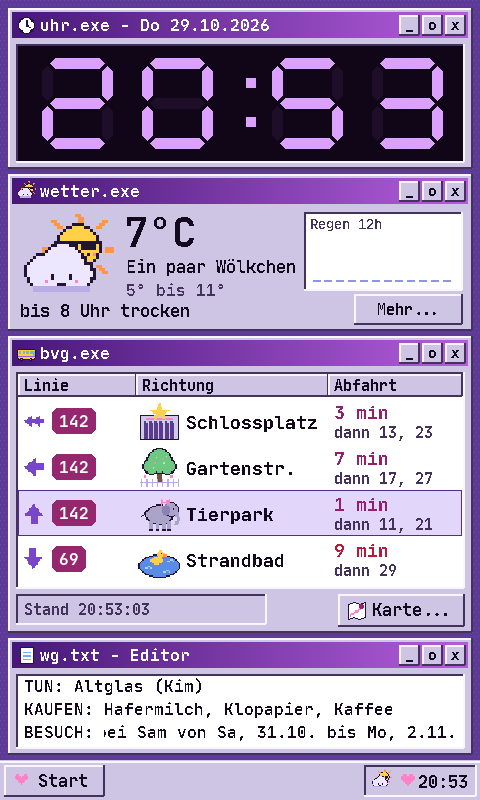
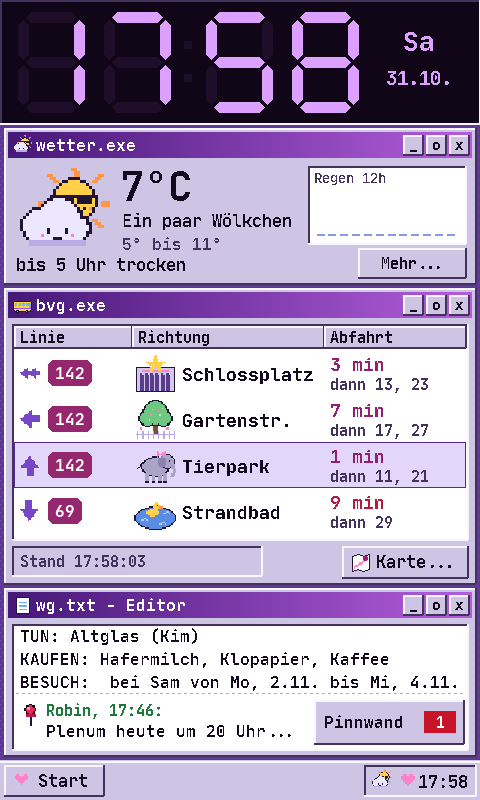
README: new games, Pinnwand, night mode, autostart wrapper; screenshots with made-up data

diff --git a/README.md b/README.md
@@ -10,6 +10,18 @@
 | -------------------------------------------------------------------------- | ----------------------------------------------------------------------------------------- |
 | <img src="images/kiezos_home.png" alt="KiezOS 161 home screen" width="300"> | <img src="images/example_installation.jpg" alt="Dashboard wall installation" width="300"> |
 
+| pinnwand.exe (WG chat for guests)                                    | Night mode                                                          | ENTEIGNEN!                                                        |
+| -------------------------------------------------------------------- | ------------------------------------------------------------------- | ----------------------------------------------------------------- |
+| <img src="images/kiezos_pinnwand.png" alt="pinnwand.exe" width="240"> | <img src="images/kiezos_night.png" alt="Night mode" width="240">    | <img src="images/game_enteignen.png" alt="ENTEIGNEN!" width="240"> |
+
+| TIC-TAC-DADA                                                            | PATRIAPUTT                                                            | KIEZ KAPERN                                                         |
+| ----------------------------------------------------------------------- | ------------------------------------------------------------------------ | ------------------------------------------------------------------- |
+| <img src="images/game_tictacdada.png" alt="TIC-TAC-DADA" width="240">   | <img src="images/game_patriaputt.png" alt="PATRIAPUTT" width="240"> | <img src="images/game_kiezkapern.png" alt="KIEZ KAPERN" width="240"> |
+
+| KIEZ-KURIER (daily puzzle)                                              | LASTENRAVE                                                               |
+| ----------------------------------------------------------------------- | ------------------------------------------------------------------------ |
+| <img src="images/game_kiezkurier.png" alt="KIEZ-KURIER" width="240">    | <img src="images/game_lastenrave.png" alt="LASTENRAVE" width="240">      |
+
 ## Abstract
 In here, I explain (for my future me and anyone else reading this, feel free to share!) how to successfully set up on a Pi 4B with the Waveshare 4,3 Zoll QLED Touch Display (DSI, 800x480) and Pi OS 20241119 (bookworm).
 
@@ -21,8 +33,9 @@ The 480x800 screen is dressed up as *KiezOS 161*, a purple 90s desktop, ordered 
 - `uhr.exe`: a big 7-segment clock with a blinking colon.
 - `wetter.exe`: current weather, today's low/high and whether rain is coming in the next 12 hours (hourly forecast from [Open-Meteo](https://open-meteo.com/), no API key needed). `Mehr...` opens the details: feels-like, humidity, wind, UV, the rain chart, sunrise/sunset, moon phase and the next 3 days.
 - `bvg.exe`: one row per configured bus connection with its destination landmark, "in x min" plus the departures after it, and delays in red. `Karte...` draws the same connections on a little map of the Kiez.
-- `wg.txt`: what's due, what to buy and who's visiting (optional MoaBeats integration, see below).
-- The `Start` menu bundles everything else: Spiele, AFM-Quiz, Putzdienste, WLAN-Zugang, Stimmung & Stats and `Herunterfahren...` (try it).
+- `wg.txt`: what's due, what to buy and who's visiting, plus a strip that opens `pinnwand.exe`, the WG's chat, where guests can read along and leave a message (optional MoaBeats integration, see below).
+- The `Start` menu bundles everything else: Spiele (a game of the day, a few favourites and a folder with the rest), AFM-Quiz, Putzdienste, WLAN-Zugang, Stimmung & Stats and `Herunterfahren...` (try it).
+- At night the whole screen turns warm red, so it doesn't light up the hallway (optional).
 - Some surprises when you walk past. Not telling.
 
 ## Cost estimate
@@ -264,16 +277,18 @@ The KiezOS 161 look has one theme file, set in `config.json` via
 
 #### MoaBeats WG Integration
 MoaBeats is a separate (not public) web app this WG uses to track chores, a shared shopping list,
-and upcoming guest visits. This integration is a one-way, read-only pull: `PiDashboard.py`
-periodically fetches a small JSON summary from MoaBeats' API and renders it on the display - it
-doesn't write anything back. If you don't run MoaBeats yourself, just leave `ENABLED: false` (the
+and upcoming guest visits. `PiDashboard.py` periodically fetches a small JSON summary from
+MoaBeats' API and renders it on the display; the only things it writes back are checklist ticks
+and Pinnwand messages (below). If you don't run MoaBeats yourself, just leave `ENABLED: false` (the
 default) and ignore this section entirely.
 ```json
 "MOABEATS": {
   "ENABLED": false,
   "API_URL": "https://your-moabeats-instance.up.railway.app",
   "DISPLAY_SECRET": "shared secret, set as DISPLAY_SECRET on the MoaBeats side too",
-  "POLL_INTERVAL": 1800
+  "POLL_INTERVAL": 1800,
+  "PINNWAND_USER": "FlurPi",
+  "PINNWAND_PASSWORD": "the guest account's password"
 }
 ```
 - Polls a MoaBeats instance's `GET /api/display/status` for WG chores, shopping list, and upcoming
@@ -287,6 +302,12 @@ default) and ignore this section entirely.
 - `Start` → `Putzdienste` lists today's and overdue cleaning chores (the same list as the cleaning-day
   screen); chores with a checklist show their progress and open on tap, where sub-items can be
   ticked (ticking only - completing a chore stays in the MoaBeats app).
+- **Pinnwand**: if `PINNWAND_USER`/`PINNWAND_PASSWORD` are set (a normal MoaBeats account just for
+  the display), the bottom strip of `wg.txt` shows the newest message of MoaBeats' `pinnwand` chat
+  channel and an unread badge; tapping it opens `pinnwand.exe` (`pinnwand.py`): the last messages as
+  chat bubbles, and an on-screen keyboard to write one, with an optional name ("Oma Erna: ...").
+  Bot reminders and emoji are left out. A wrong password is tried once and then not again (MoaBeats
+  would lock the account); without network it just says so and retries.
 - Polling pauses while the display is blank, same as weather/BVG, *except* on `CLEANING_DAY`: the
   blanked screen is actively showing the cleaning-day fullscreen then, so it keeps polling to stay
   current through the day rather than freezing on stale data.
@@ -309,6 +330,7 @@ default) and ignore this section entirely.
   "CONFIRMATION_SECONDS": 5,
   "CATALOG": [{"name": "happy", "emoji": "😊", "color": "#16a34a"}, ...],
   "CUSTOM_SLOTS": [],
+  "GROUPS": [["happy", "excited", "energized", "wild"], ["grateful", "relaxed", "proud", "focused"], ...],
   "FALLBACK_STYLE": {"emoji": "?", "color": "#9ca3af"},
   "LLM": {
     "ENABLED": false,
@@ -321,10 +343,22 @@ default) and ignore this section entirely.
 - Whenever the display is reactivated from blank state (touch or PIR motion), an emotion popup can appear.
 - Prompt frequency is rate-limited by `COOLDOWN_SECONDS` (default: once every 30 minutes).
 - The post-save confirmation popup stays visible for `CONFIRMATION_SECONDS` (default: 5 seconds).
-- Emotion buttons show up to 16 options (default catalog + custom slots), plus `Cancel` and `Show results` actions (also under `Start` → `Stimmung & Stats`). This window (`mood.exe`) is English, like the emotion names it logs.
+- Emotion buttons show up to 16 options (default catalog + custom slots), one row per mood family (`GROUPS`, shuffled each time so nobody always taps the first one), plus `Cancel` and `Show results` actions (also under `Start` → `Stimmung & Stats`). This window (`mood.exe`) is English, like the emotion names it logs.
 - `Show results` opens a second overlay with a QR code to the web results page.
 - If nobody interacts, prompt dismissal follows `TIMER.DISPLAY_BLANK` timing and is not logged.
 - **Custom emotions**: Tap `custom...` to enter text. New emotions auto-deduplicate against catalog. If LLM enabled, auto-classifies with emoji, color, and position on sentiment spectrum (green=positive→red=negative). Spelling fixes from LLM map back to existing entries.
+
+#### Night mode
+```json
+"NIGHT_MODE": {
+  "ENABLED": false,
+  "FROM": "23:00",
+  "TO": "07:00",
+  "TINT": [255, 150, 90]
+}
+```
+- Between `FROM` and `TO` (also across midnight) every frame is multiplied with `TINT`: a warm,
+  dimmer red-orange that doesn't light up a dark hallway. Purely a filter, everything works as usual.
 
 #### Local Web Dashboard
 ```json
@@ -390,19 +424,43 @@ default) and ignore this section entirely.
 "GAMES": {
   "ENABLED": false,
   "IDLE_TIMEOUT_SECONDS": 60,
-  "FPS": 30
+  "FPS": 30,
+  "FEATURED": ["ENTEIGNEN!", "KIEZ-KURIER", "LASTENRAVE", "TIC-TAC-DADA", "KIEZ KAPERN", "PATRIAPUTT"],
+  "TICTACTOE": {"SPECIAL_LINES": {"ROUNDS": [6, 12], "WIN": ["{winner}, deine Oma wäre stolz auf dich."], "PLAY": ["Oma freut sich, dass ihr spielt."]}}
 }
 ```
-- `Start` → `Spiele` opens a menu with MERZ (below) and two
-  tap-only games from `party_games.py`: **STAPEL-TURM** (tap to drop
-  a sliding Plattenbau floor on the tower, overhang gets cut off) and **FLAPPY BVG** (tap to hop a
-  BVG bus through gaps between Baustellen barriers).
-- One flag/timeout/FPS for all three games (MERZ had its own `MERZ` section before; it's no
-  longer read). All-time top 5 per game in `logs/game_highscores.json` (MERZ: by time from the
-  first throw to the explosion, fastest first)
-  (`highscore_store.py`, gitignored); getting into it asks for a name on an on-screen keyboard
-  in the game-over panel (empty -> "ANONYM", also saved if the game is closed mid-entry). The menu/game closes after `IDLE_TIMEOUT_SECONDS` without a tap or when the display
-  blanks.
+- `Start` → `Spiele` (and `spiele.exe`, where a game's MENÜ button leads) shows the `FEATURED`
+  games: one of them, rotating daily, as the big "SPIEL DES TAGES", then the others, then a
+  "Mehr Spiele..." folder with everything else. Fewer choices, more playing. All games are drawn
+  in code, tap/swipe only, no sound:
+  - **ENTEIGNEN!** (`enteignen.py`): swipe to cut flying money, yachts and private jets in half
+    (but not the neighbours' cat or the BVG bus); uncut money escapes as Steuerflucht. Streaks
+    multiply the points, three bosses (das Patriarchat, Mietenhai AG, das Kapital) show up during a run.
+  - **KIEZ-KURIER** (`kiezkurier.py`): one new route puzzle a day, the same for the whole WG:
+    drag the Lastenrad from the Kollektiv to the Späti through every free street exactly once;
+    Baustellen are closed, at a Kreisel you must turn, on a Fahrradstraße go straight, an
+    Einbahnstraße is left in the arrow's direction. Generated from the date and checked by a
+    solver to have exactly one solution; fastest time of the day wins.
+  - **LASTENRAVE** (`lastenrave.py`): stack ever more absurd rave gear (speakers, Mischpult,
+    Discokugel, XXL-Pfeffi, Sperrmüll-Sofa, ...) from a swinging crane onto a Lastenrad riding over
+    Kopfsteinpflaster, without the pile tipping over.
+  - **TIC-TAC-DADA** (`tictacdada.py`): tic-tac-toe for 2 Spieler*innen with the WG's MoaBeats
+    profile pictures (pixelated) or X/O, a different win line every round (`tictacdada_lines.py`)
+    and dadaist rule breaks. `TICTACTOE.SPECIAL_LINES` adds lines for one random round between
+    `ROUNDS` per session (`{winner}` / `{loser}` = the players' names, checked at start) - keep
+    lines naming real people in your config, not in the code.
+  - **KIEZ KAPERN** (`kiezkapern.py`): a 3-minute shift on a Lastenrad in a made-up Kiez: tap the
+    map to ride there, free Lastenräder, deliver Soli-Suppe, topple a luxury-loft crane, and keep
+    the Mietspiegel (the wanted level) down.
+  - **PATRIAPUTT** (`patriaputt.py`): brick-breaker against a slowly descending wall of
+    patriarchy, with ball upgrades.
+  - In the folder: **KIEZBLOCK** (`games_kiezblock.py`, tap SUVs into Hochbeete), **STAPEL-TURM** (tap to drop a Plattenbau floor on the
+    tower) and **FLAPPY BVG** (hop a BVG bus through Baustellen) from `party_games.py`, and MERZ (below).
+- Every finished round is kept with its score and time in `logs/game_highscores.json`
+  (`highscore_store.py`, gitignored), the name is optional (on-screen keyboard in the game-over
+  dialog, also kept if the game is closed mid-entry). The game-over dialog shows the whole list,
+  scrollable, so a statistic over the year is possible later. The menu/game closes after
+  `IDLE_TIMEOUT_SECONDS` without a tap or when the display blanks.
 - Disabled by default.
 
 #### MERZ (dadaist easter-egg minigame, part of GAMES)
@@ -467,6 +525,10 @@ We use the standard Desktop autostart mechanism.
    ```bash
    cp pidashboard.desktop ~/.config/autostart/
    ```
+   It starts `web_server.py` and `run_dashboard.sh`, which restarts `PiDashboard.py` after a crash,
+   but not after the emergency exit or ESC (those exit with code 0), and gives up after more than
+   5 crashes in 10 minutes. To restart the dashboard by hand, `pkill -f PiDashboard.py` is enough -
+   the wrapper starts it again (don't start a second copy).
 
 3. **Reboot**: `sudo reboot`
   The dashboard and local web server should now start automatically, and the screen should blank after the configured timeout.

diff --git a/CLAUDE.md b/CLAUDE.md
@@ -67,6 +67,11 @@ After `git pull` on the Pi, restart whichever process actually changed:
   at it. A full `sudo reboot` restarts both processes cleanly via the `pidashboard.desktop`
   autostart entry and is often simpler than manually managing the foregrounded process, but is
   even more visible/disruptive — same rule applies.
+- `pidashboard.desktop` starts `PiDashboard.py` through `run_dashboard.sh`, which restarts it after
+  a crash (exit code != 0) but not after the 5-tap emergency exit / ESC (exit 0), and gives up after
+  more than 5 crashes in 10 minutes. So once that's deployed, a manual restart is just
+  `pkill -f PiDashboard.py` (the wrapper starts it again) — launching a second copy by hand would
+  run two dashboards.
 
 ## Configuration
 
@@ -127,11 +132,27 @@ through the JSON files in `logs/`:
   a chore stays in the app on purpose. `dev/test_moabeats_checklist.py` tests it headless against
   `dev/fake_moabeats_server.py`, which also runs standalone for a local look (point
   `MOABEATS.API_URL` at it; never test ticking against the real instance).
-- **Spiele** — Start -> Spiele opens a submenu (and a game's MENÜ button the `spiele.exe` window): MERZ plus the tap-only
-  party games in `party_games.py` (STAPEL-TURM, FLAPPY BVG), all behind one `GAMES` config section.
-  Each game is a self-contained object (`update(now)`, `draw(surf)`, `tap(x, y)`) that
-  `PiDashboard.py` only drives; an all-time top 5 per game (MERZ too, by time, via `party_games.MerzResult`) is persisted via `highscore_store.py`
-  (`logs/game_highscores.json`, name typed on an on-screen keyboard in the game-over panel).
+- **Spiele** — Start -> Spiele opens a submenu (and a game's MENÜ button the `spiele.exe` window) with
+  only the config `GAMES.FEATURED` games (one of them, rotating daily, as "Spiel des Tages",
+  `games_menu_split()`) plus a "Mehr Spiele..." folder (`GAMES_MENU_PAGE` "more") with the rest: MERZ
+  (in `PiDashboard.py`) plus the party games, all behind one `GAMES` config section: STAPEL-TURM and
+  FLAPPY BVG (`party_games.py`), ENTEIGNEN! (`enteignen.py`, swipe-to-cut), KIEZBLOCK
+  (`games_kiezblock.py`), TIC-TAC-DADA (`tictacdada.py` + `tictacdada_lines.py`, 2 players with the
+  WG's MoaBeats avatars; special lines naming real people only in config `GAMES.TICTACTOE`),
+  PATRIAPUTT (`patriaputt.py`, brick-breaker), KIEZ KAPERN (`kiezkapern.py`, tap-to-drive
+  Kiez sandbox), KIEZ-KURIER (`kiezkurier.py`, daily route puzzle seeded by the date, own
+  `IDLE_TIMEOUT_SECONDS` class attribute read by `update_games_timeout()`) and LASTENRAVE
+  (`lastenrave.py`, crane stacking with its own small physics). Each is a `party_games._Game` subclass (`update(now)`, `draw(surf)`, `tap(x, y)`,
+  optional `drag(x, y)`/`release()` — PiDashboard routes MOUSEMOTION with the finger down and
+  MOUSEBUTTONUP to the active game) registered in `PiDashboard.py` with `party_games.GAMES.append`
+  and its icon in `kiezos.ICON_MAKERS`. Every finished round (score, time, optional name) is kept via
+  `highscore_store.py` (`logs/game_highscores.json`); the KiezOS game-over dialog shows the whole,
+  scrollable Bestenliste. Each game has a headless `dev/test_<game>.py`, most a `dev/play_<game>.py`.
+- `pinnwand.py` — pinnwand.exe: MoaBeats' "pinnwand" chat channel read/written via a guest account
+  (config `MOABEATS.PINNWAND_USER/PASSWORD`), opened from the strip at the bottom of wg.txt;
+  `dev/test_pinnwand.py` runs against `dev/fake_moabeats_server.py`.
+- Night mode (config `NIGHT_MODE`): the finished frame is multiplied with a warm tint in the time
+  window (`apply_night_mode()`, once per frame right before `display.update()`; `dev/test_night_mode.py`).
 - Two built-in safety mechanisms exist specifically because this runs headless/unattended on a
   touchscreen with no keyboard: an emergency-exit corner tap (top-left corner, 5 rapid taps
   anywhere within the hitbox — deliberately generous, not pixel-exact, because real touchscreen
